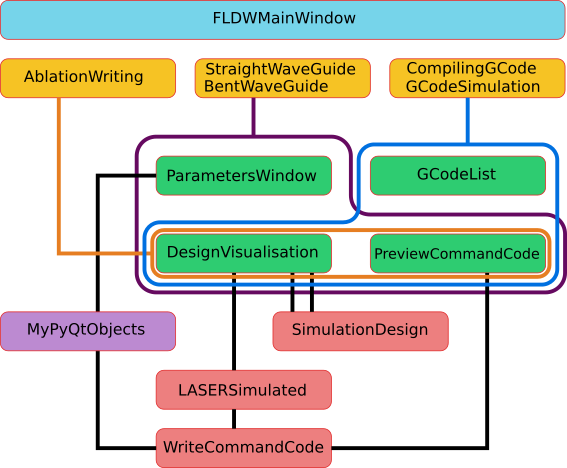
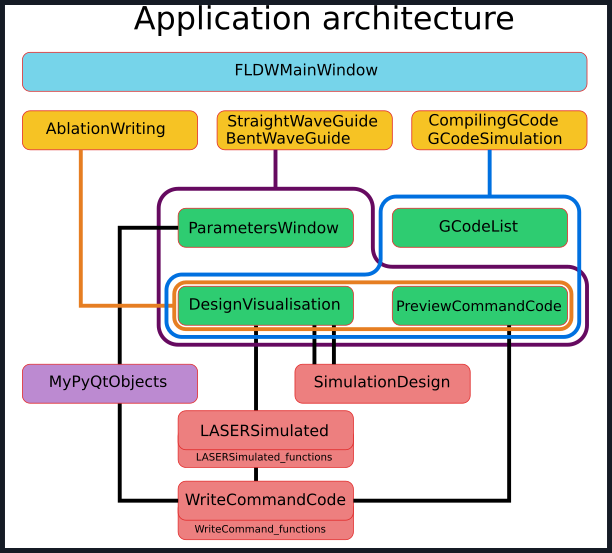
New function file for LASERSimulated class

diff --git a/Dependencies_import/s_LASERSimulated_class.py b/Dependencies_import/s_LASERSimulated_class.py
@@ -21,6 +21,8 @@ from numpy import arctan as atan
 from numpy import arccos as acos
 from numpy import arcsin as asin
 
+from s_LASERSimulated_functions import *
+
 ################################################################################################
 # FUNCTIONS
 ################################################################################################
@@ -51,6 +53,20 @@ class LASERSimulated():
         self.initDictionaryInstruction()
         self.setSpecialCommand()
         #self.initFunctionForEvaluation() # doesn't work
+
+   # --- Method attribution from external modul --- #
+    '''
+    '''
+    doDVARcmd        = doDVARcmd
+    doLINEARcmd      = doLINEARcmd
+    doABSOLUTEcmd    = doABSOLUTEcmd
+    doINCREMENTALcmd = doINCREMENTALcmd
+    doPSOCONTROLcmd  = doPSOCONTROLcmd
+    doFORcmd         = doFORcmd
+    doNEXTcmd        = doNEXTcmd
+    doG2cmd          = doG2cmd
+    doG3cmd          = doG3cmd
+    doG92cmd         = doG92cmd
 
     def initFunctionForEvaluation(self):
         from numpy import sin as SIN
